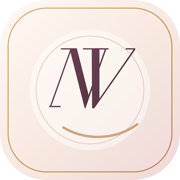
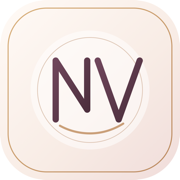
Corrige icone NV e atualiza cache do app

Changed region(s): [[0.1944, 0.1944, 0.8056, 0.8056]]

diff --git a/index.html b/index.html
@@ -8,13 +8,13 @@
     <!-- Theme Colors -->
     <meta name="theme-color" content="#c55b84" />
     <meta name="msapplication-TileColor" content="#c55b84" />
-    <meta name="msapplication-TileImage" content="mstile-150.png" />
+    <meta name="msapplication-TileImage" content="mstile-150.png?v=nv3" />
     
     <!-- iOS Web App Meta Tags -->
     <meta name="apple-mobile-web-app-capable" content="yes" />
     <meta name="apple-mobile-web-app-status-bar-style" content="black-translucent" />
     <meta name="apple-mobile-web-app-title" content="Vida Nova" />
-    <link rel="apple-touch-icon" sizes="180x180" href="apple-touch-icon-180.png" />
+    <link rel="apple-touch-icon" sizes="180x180" href="apple-touch-icon-180.png?v=nv3" />
     
     <!-- Android Web App Meta Tags -->
     <meta name="mobile-web-app-capable" content="yes" />
@@ -38,9 +38,9 @@
     <link rel="preload" href="script.js" as="script" />
     
     <!-- PWA Manifest -->
-    <link rel="manifest" href="manifest.webmanifest" />
-    <link rel="icon" href="icon.svg" type="image/svg+xml" />
-    <link rel="icon" href="icon-192.png" sizes="192x192" type="image/png" />
+    <link rel="manifest" href="manifest.webmanifest?v=nv3" />
+    <link rel="icon" href="icon.svg?v=nv3" type="image/svg+xml" />
+    <link rel="icon" href="icon-192.png?v=nv3" sizes="192x192" type="image/png" />
     
     <!-- Stylesheets -->
     <link rel="stylesheet" href="styles.css" />

diff --git a/login.html b/login.html
@@ -13,7 +13,7 @@
     <meta name="apple-mobile-web-app-capable" content="yes" />
     <meta name="apple-mobile-web-app-status-bar-style" content="black-translucent" />
     <meta name="apple-mobile-web-app-title" content="Vida Nova" />
-    <link rel="apple-touch-icon" sizes="180x180" href="apple-touch-icon-180.png" />
+    <link rel="apple-touch-icon" sizes="180x180" href="apple-touch-icon-180.png?v=nv3" />
     
     <!-- Android Web App Meta Tags -->
     <meta name="mobile-web-app-capable" content="yes" />
@@ -29,9 +29,9 @@
     <meta http-equiv="X-UA-Compatible" content="IE=edge" />
     
     <!-- PWA Manifest -->
-    <link rel="manifest" href="manifest.webmanifest" />
-    <link rel="icon" href="icon.svg" type="image/svg+xml" />
-    <link rel="icon" href="icon-192.png" sizes="192x192" type="image/png" />
+    <link rel="manifest" href="manifest.webmanifest?v=nv3" />
+    <link rel="icon" href="icon.svg?v=nv3" type="image/svg+xml" />
+    <link rel="icon" href="icon-192.png?v=nv3" sizes="192x192" type="image/png" />
     <link rel="stylesheet" href="styles.css" />
   </head>
   <body class="auth-body">

diff --git a/mobile.html b/mobile.html
@@ -13,7 +13,7 @@
     <meta name="apple-mobile-web-app-capable" content="yes" />
     <meta name="apple-mobile-web-app-status-bar-style" content="black-translucent" />
     <meta name="apple-mobile-web-app-title" content="Vida Nova" />
-    <link rel="apple-touch-icon" sizes="180x180" href="apple-touch-icon-180.png" />
+    <link rel="apple-touch-icon" sizes="180x180" href="apple-touch-icon-180.png?v=nv3" />
     
     <!-- Android Web App Meta Tags -->
     <meta name="mobile-web-app-capable" content="yes" />
@@ -26,9 +26,9 @@
     <meta http-equiv="X-UA-Compatible" content="IE=edge" />
     
     <!-- PWA Manifest -->
-    <link rel="manifest" href="manifest.webmanifest" />
-    <link rel="icon" href="icon.svg" type="image/svg+xml" />
-    <link rel="icon" href="icon-192.png" sizes="192x192" type="image/png" />
+    <link rel="manifest" href="manifest.webmanifest?v=nv3" />
+    <link rel="icon" href="icon.svg?v=nv3" type="image/svg+xml" />
+    <link rel="icon" href="icon-192.png?v=nv3" sizes="192x192" type="image/png" />
     <link rel="stylesheet" href="styles.css" />
   </head>
   <body>

diff --git a/sw.js b/sw.js
@@ -1,5 +1,5 @@
-const CACHE_NAME = "vida-nova-v1";
-const CACHE_DYNAMIC = "vida-nova-dynamic-v1";
+const CACHE_NAME = "vida-nova-v3";
+const CACHE_DYNAMIC = "vida-nova-dynamic-v3";
 const APP_SHELL = [
   "./",
   "./index.html",
@@ -10,11 +10,11 @@ const APP_SHELL = [
   "./login.js",
   "./mobile.js",
   "./manifest.webmanifest",
-  "./icon.svg",
-  "./icon-192.png",
-  "./icon-512.png",
-  "./apple-touch-icon.png",
-  "./apple-touch-icon-180.png",
+  "./icon.svg?v=nv3",
+  "./icon-192.png?v=nv3",
+  "./icon-512.png?v=nv3",
+  "./apple-touch-icon.png?v=nv3",
+  "./apple-touch-icon-180.png?v=nv3",
   "./mstile-150.png",
 ];
 
@@ -63,7 +63,8 @@ self.addEventListener("fetch", (event) => {
       url.pathname.endsWith(".css") ||
       url.pathname.endsWith(".js") ||
       url.pathname.endsWith(".webmanifest") ||
-      url.pathname.endsWith(".svg");
+      url.pathname.endsWith(".svg") ||
+      url.pathname.endsWith(".png");
 
     if (isAppAsset) {
       // Network first, fallback to cache for app assets
